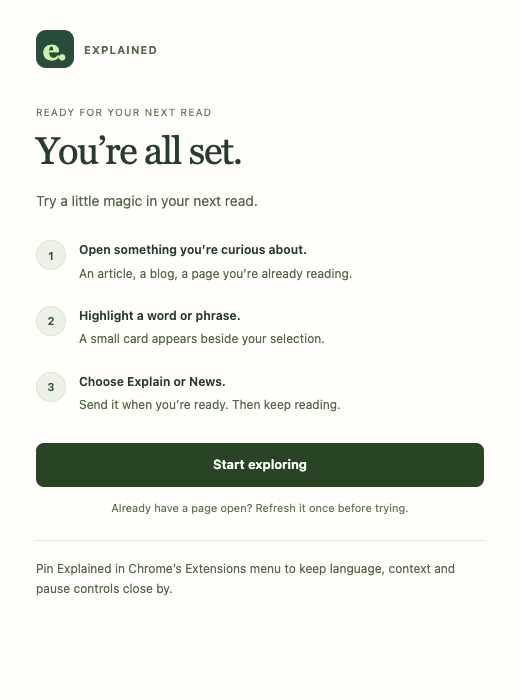
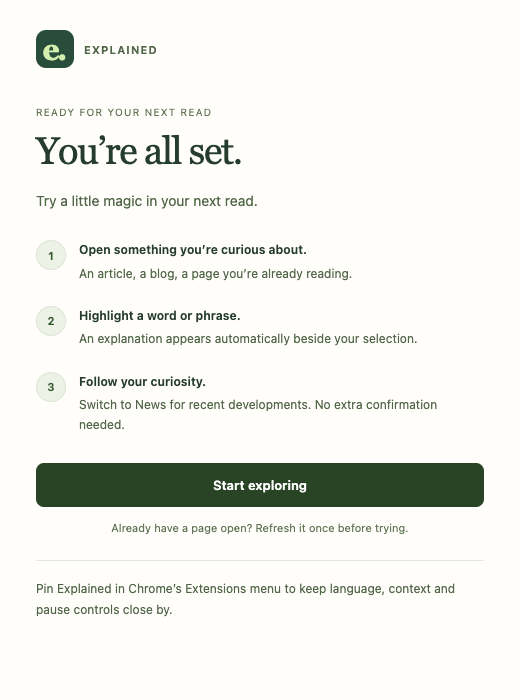
Start Explain on selection and News on tab switch without confirmation

Changed region(s): [[0.0615, 0.54, 0.9538, 0.9], [0.1538, 0.48, 0.8, 0.51]]

diff --git a/explained-extension/reader.js b/explained-extension/reader.js
@@ -45,8 +45,11 @@
     shadow.addEventListener('keydown', event => {
       if (event.key === 'Escape') { event.stopPropagation(); close(true); }
       if (['ArrowLeft', 'ArrowRight', 'Home', 'End'].includes(event.key) && event.target.matches('[role="tab"]')) {
-        event.preventDefault(); state.mode = event.target.dataset.mode === 'explain' ? 'news' : 'explain';
-        state.detail = false; showSelection(); shadow.querySelector(`[data-mode="${state.mode}"]`)?.focus();
+        event.preventDefault();
+        const next = event.key === 'Home' ? 'explain' : event.key === 'End' ? 'news' : state.mode === 'explain' ? 'news' : 'explain';
+        if (next === state.mode) return;
+        state.mode = next; state.detail = false;
+        void lookup(); shadow.querySelector(`[data-mode="${state.mode}"]`)?.focus();
       }
     });
     document.documentElement.append(host);
@@ -147,13 +150,7 @@
     lastFocus = document.activeElement;
     rangeForPosition = range.cloneRange();
     Object.assign(state, { open: true, term, capturedContext: context, context: prefs.contextEnabled ? context : '', mode: 'explain', detail: false, contextOpen: false });
-    showSelection();
-  }
-  function showSelection() {
-    stop(); connectionNotice = '';
-    const cached = state.cache.get(cacheKey());
-    Object.assign(state, cached || { text: '', sources: [] }, { phase: cached ? 'ready' : 'selection', code: '' });
-    render();
+    void lookup();
   }
   function sourceLinks(sources) {
     return sources.flatMap(s => {
@@ -162,7 +159,6 @@
     }).join('');
   }
   function answer() {
-    if (state.phase === 'selection') return `<div class="empty-state setup-state"><h3>${text('Ready when you are','准备好时再开始','準備好時再開始')}</h3><p>${text('Highlighting keeps the text on this page. Choose an action to send this selection to DeepSeek.','划词不会发送文字。点击下方按钮才会将此次选择发送至 DeepSeek。','劃詞不會傳送文字。點擊下方按鈕才會將此次選擇傳送至 DeepSeek。')}</p><div class="setup-actions"><button class="primary-action" data-action="request">${state.mode === 'news' ? text('Search news','搜索新闻','搜尋新聞') : text('Explain selection','解释所选文字','解釋所選文字')}</button></div><p class="setup-hint">${prefs.contextEnabled ? text('Includes nearby context. Review it below or turn it off in the toolbar.','将包含附近上下文。可在下方查看，或在工具栏中关闭。','將包含附近上下文。可在下方查看，或在工具列中關閉。') : text('Only the selected phrase will be sent.','仅发送所选文字。','僅傳送所選文字。')}</p></div>`;
     const waiting = ['connecting', 'loading', 'streaming'].includes(state.phase);
     const loading = waiting ? `<p class="loading-label" role="status"><i></i>${state.phase === 'connecting' ? text('Connecting to DeepSeek…','正在连接 DeepSeek…') : state.mode === 'news' ? text('Searching recent coverage…','正在搜索近期报道…') : text('Finding the meaning in context…','正在结合语境解释…')}</p>` : '';
     let body = '';
@@ -193,7 +189,7 @@
     return `<div class="answer-tabs" role="tablist" aria-label="Answer type">${['explain', 'news'].map(mode => `<button role="tab" tabindex="${state.mode === mode ? '0' : '-1'}" aria-selected="${state.mode === mode}" data-mode="${mode}" class="${state.mode === mode ? 'active' : ''}">${mode === 'explain' ? text('Explain','解释','解釋') : text('News','新闻','新聞')} ${mode === 'news' ? '↗' : ''}</button>`).join('')}</div>`;
   }
   function contextBlock() {
-    return `<button class="context-toggle" data-action="context" aria-expanded="${state.contextOpen}">${state.contextOpen ? '−' : '+'} ${state.phase === 'selection' ? text('Context to share','将分享的上下文','將分享的上下文') : text('Context used','使用的上下文')}</button>${state.contextOpen ? `<div class="context-block">${esc(prefs.contextEnabled ? state.context : text('Context sharing is off. Only the selected text is sent.','上下文分享已关闭，仅发送所选文字。'))}</div>` : ''}`;
+    return `<button class="context-toggle" data-action="context" aria-expanded="${state.contextOpen}">${state.contextOpen ? '−' : '+'} ${text('Context used','使用的上下文')}</button>${state.contextOpen ? `<div class="context-block">${esc(prefs.contextEnabled ? state.context : text('Context sharing is off. Only the selected text is sent.','上下文分享已关闭，仅发送所选文字。'))}</div>` : ''}`;
   }
   function render() {
     if (!host && !state.open) return;
@@ -206,7 +202,7 @@
     if (!state.open || !allowed()) { root.replaceChildren(); return; }
     const closeButton = `<button class="icon-btn" data-action="close" aria-label="${text('Close answer','关闭回答')}">×</button>`;
     const title = `<h2>${esc(state.term)}</h2><div class="meaning">${text('Selected phrase · in context','所选短语 · 结合语境')}</div>`;
-    const footer = `<div class="card-footer"><span>DeepSeek · ${state.phase === 'selection' ? text('Not sent','尚未发送','尚未傳送') : text('AI response','AI 回答')}</span><span>${esc(Explained.languages[prefs.language])} · ${text('General','通用')}</span></div>`;
+    const footer = `<div class="card-footer"><span>DeepSeek · ${text('AI response','AI 回答')}</span><span>${esc(Explained.languages[prefs.language])} · ${text('General','通用')}</span></div>`;
     const content = answer();
     let html;
     if (prefs.layout === 'B') html = `<section class="assistant variant-b" role="region" aria-label="Explained"><div class="split-context"><span class="identity">e. &nbsp; EXPLAINED</span>${title}<span class="context-label">${text('IN THIS CONTEXT','在此语境中')}</span><div class="context-block">${esc(prefs.contextEnabled ? state.context : text('Context sharing off','上下文分享已关闭'))}</div><span class="small-tag">${text('A little more understanding','多理解一点')}</span></div><div class="split-answer"><div class="split-top"><span>EXPLAINED</span>${closeButton}</div>${tabs()}${content}${footer}</div></section>`;
@@ -235,13 +231,12 @@
     if (!target || target.disabled) return;
     if (target.dataset.mode) {
       if (state.mode === target.dataset.mode) return;
-      state.mode = target.dataset.mode; state.detail = false; showSelection(); return;
+      state.mode = target.dataset.mode; state.detail = false; await lookup(); return;
     }
     const action = target.dataset.action;
     if (action === 'close') close(true);
     if (action === 'context') { state.contextOpen = !state.contextOpen; render(); }
     if (action === 'more') { state.detail = !state.detail; await lookup(); }
-    if (action === 'request') await lookup();
     if (action === 'retry') await lookup(true);
     if (action === 'refresh') location.reload();
     if (action === 'connection') {

diff --git a/explained-extension/welcome.html b/explained-extension/welcome.html
@@ -9,8 +9,8 @@
       <h1 id="welcome-title">Meet your reading companion.</h1>
       <p class="intro">A clearer meaning. A little more context. Right beside what you’re reading.</p>
       <div class="sharing">
-        <h2>You choose what to share.</h2>
-        <p>When you choose Explain or Search news, your selected text is sent to DeepSeek. DeepSeek may keep these chats. Highlighting alone never sends text.</p>
+        <h2>A little context, with your permission.</h2>
+        <p>With lookups enabled, highlighting sends your selected text to DeepSeek for an explanation. Switching to News searches for recent developments. DeepSeek may keep these chats. Pause lookups anytime from the toolbar.</p>
         <label class="context-option" for="context"><input id="context" type="checkbox" disabled><span><strong>Include nearby context</strong><span>Share up to 600 nearby characters with your selection to help clarify its meaning. You can change this anytime.</span></span></label>
       </div>
       <button id="enable" class="primary" disabled>Enable lookups</button>
@@ -23,8 +23,8 @@
       <p class="intro">Try a little magic in your next read.</p>
       <ol class="steps">
         <li><span class="step-number" aria-hidden="true">1</span><span><strong>Open something you’re curious about.</strong><span>An article, a blog, a page you’re already reading.</span></span></li>
-        <li><span class="step-number" aria-hidden="true">2</span><span><strong>Highlight a word or phrase.</strong><span>A small card appears beside your selection.</span></span></li>
-        <li><span class="step-number" aria-hidden="true">3</span><span><strong>Choose Explain or News.</strong><span>Send it when you’re ready. Then keep reading.</span></span></li>
+        <li><span class="step-number" aria-hidden="true">2</span><span><strong>Highlight a word or phrase.</strong><span>An explanation appears automatically beside your selection.</span></span></li>
+        <li><span class="step-number" aria-hidden="true">3</span><span><strong>Follow your curiosity.</strong><span>Switch to News for recent developments. No extra confirmation needed.</span></span></li>
       </ol>
       <button id="done" class="primary">Start exploring</button>
       <p class="footnote">Already have a page open? Refresh it once before trying.</p>

diff --git a/explained-extension/popup.html b/explained-extension/popup.html
@@ -4,8 +4,8 @@
 <body>
   <header><span class="logo">e.</span><div><h1>Explained</h1><p>A little more understanding.</p></div><button id="enabled" class="toggle" aria-pressed="true" hidden>On</button></header>
   <main>
-    <p class="helper">Highlight a phrase, then choose Explain or News when you want an answer.</p>
-    <section id="consent-panel"><h2>Your choice to share</h2><p>Selected text and, when enabled, up to 600 characters of nearby context are sent to DeepSeek only when you choose Explain, Search news or Retry. DeepSeek may keep these chats.</p><button id="consent" class="solid">Enable lookups</button><p>Enabling does not send text or open DeepSeek. Highlighting alone never sends text.</p></section>
+    <p class="helper">Highlight a phrase for an explanation. Switch to News for recent developments.</p>
+    <section id="consent-panel"><h2>Your choice to share</h2><p>With lookups enabled, highlighting sends selected text and, when enabled, up to 600 nearby characters to DeepSeek. Switching to News starts a search. DeepSeek may keep these chats.</p><button id="consent" class="solid">Enable lookups</button><p>Enabling itself sends no text. Pause globally or for a website anytime.</p></section>
     <label for="language">Answer language</label><select id="language"><option value="en">English</option><option value="zh-CN">简体中文</option><option value="zh-TW">繁體中文</option></select>
     <div class="setting"><div><label for="context">Use nearby context</label><p>Helps distinguish meanings. Off sends only the selected text.</p></div><input id="context" type="checkbox"></div>
     <div class="setting"><div><h2 id="site-label">This website</h2><p id="site-name">Checking current tab…</p></div><button id="site" class="subtle" disabled>Pause site</button></div>

diff --git a/explained-extension/popup.js b/explained-extension/popup.js
@@ -39,7 +39,7 @@ async function init() {
   render(); void connectionStatus();
 }
 $('enabled').onclick = () => save(current => ({ ...current, enabled: !current.enabled }));
-$('consent').onclick = async () => { if (await save({ consent: true, enabled: true })) $('feedback').textContent = 'You’re all set. Highlight a phrase, then choose Explain or News when you want to send it.'; };
+$('consent').onclick = async () => { if (await save({ consent: true, enabled: true })) $('feedback').textContent = 'You’re all set. Highlight a phrase for an automatic explanation, or switch to News for recent developments.'; };
 $('language').onchange = event => { const language = event.target.value; void save({ language }); };
 $('layout').onchange = event => { const layout = event.target.value; void save({ layout }); };
 $('context').onchange = event => { const contextEnabled = event.target.checked; void save({ contextEnabled }); };
@@ -50,7 +50,7 @@ async function openConnection() {
   try {
     const result = await chrome.runtime.sendMessage({ type: 'OPEN_CONNECTION' });
     if (!result?.ok) throw new Error('OPEN_FAILED');
-    $('feedback').textContent = 'DeepSeek opened. Return to your reading and choose Explain, Search news or Retry when you’re ready.';
+    $('feedback').textContent = 'DeepSeek opened. Return to your reading and choose Retry for an interrupted lookup, or highlight a new phrase.';
   } catch { $('feedback').textContent = 'Could not open DeepSeek. Try again, or reload the extension and refresh your reading page.'; }
   finally { $('connection').disabled = false; }
 }

diff --git a/explained-extension/website-bridge.js b/explained-extension/website-bridge.js
@@ -11,7 +11,7 @@
       const listener = event => {
         if (event.source !== window || event.origin !== location.origin || event.data?.channel !== 'EXPLAINED_DIRECT_OUTPUT_V1' || event.data.nonce !== nonce || event.data.event !== 'ready') return;
         cleanup();
-        resolve({ ready: true, version: '0.1.4', busy: !!active || event.data.busy === true });
+        resolve({ ready: true, version: '0.1.5', busy: !!active || event.data.busy === true });
       };
       const timer = setTimeout(() => { cleanup(); resolve({ ready: false }); }, 1500);
       window.addEventListener('message', listener);

diff --git a/explained-extension/direct-client.js b/explained-extension/direct-client.js
@@ -4,7 +4,7 @@
   if (location.origin !== 'https://chat.deepseek.com') return;
   const CONTROL = 'EXPLAINED_DIRECT_CONTROL_V1';
   const OUTPUT = 'EXPLAINED_DIRECT_OUTPUT_V1';
-  const VERSION = '0.1.4';
+  const VERSION = '0.1.5';
   const PUBLIC_SOLVER = 'https://fe-static.deepseek.com/chat/static/sha3_wasm_bg.7b9ca65ddd.wasm';
   const pageFetch = window.fetch.bind(window);
   const clientMetadata = {};

diff --git a/README.md b/README.md
@@ -8,13 +8,13 @@ Working as an analyst in venture capital and private equity meant a lot of readi
 
 AI helped enormously. But keeping an eye on an extension’s quota got old fast, and the tools I tried often came with more features than I wanted. My wish list was pretty short: **explain this bit, please. Let me get back to reading.**
 
-So I made my own. A little Chrome extension, built around my preference for keeping things simple: highlight a phrase, choose Explain, get an explanation beside it, carry on. If curiosity takes you further, there’s a News tab too.
+So I made my own. A little Chrome extension, built around my preference for keeping things simple: highlight a phrase, get an explanation beside it, carry on. If curiosity takes you further, there’s a News tab too.
 
 I’m now an independent developer and enterprise AI consultant, and I’m sharing Explained for people with the same reading habits—and the same “hang on, what does that mean?” moments.
 
 This version uses the DeepSeek website in your browser; no official paid API key is required. DeepSeek’s own usage limits still apply.
 
-**Still a work in progress:** v0.1.4 is an experimental preview. There are rough edges, and the connection details and validation limits are documented below.
+**Still a work in progress:** v0.1.5 is an experimental preview. There are rough edges, and the connection details and validation limits are documented below.
 
 ![Explained beside a selection in a sample article](docs/images/reading-note.png)
 
@@ -22,7 +22,7 @@ This version uses the DeepSeek website in your browser; no official paid API key
 
 ## A little help, right beside your reading
 
-- **Explain it:** highlight a word or phrase, choose **Explain selection**, and read the answer as it arrives. Ask for a little more when you’re curious.
+- **Explain it:** highlight a word or phrase and read the explanation as it arrives. No extra click. Ask for a little more when you’re curious.
 - **Read the room:** nearby sentences help distinguish meanings. You can inspect that context or switch sharing off.
 - **Follow the story:** the News tab looks for up to three developments from the past 30 days. Links appear only when returned URLs or explicit citation numbers match structured search metadata; unmatched stories are labeled unverified.
 - **Make yourself comfortable:** choose a compact note, split card, or reading margin.
@@ -42,14 +42,14 @@ Normal HTML webpages in the top frame are supported. Browser pages, restricted s
 
 2. Extract the ZIP if needed. In `chrome://extensions`, enable **Developer mode**, choose **Load unpacked**, and select the **explained-extension** folder containing `manifest.json`.
 3. A quick setup window opens on your first install. Review what is shared, choose whether to include nearby context, then select **Enable lookups**. You’ll see **You’re all set** and a short guide. **Maybe later** leaves lookups off; you can enable them from the toolbar anytime. Setup sends no text and does not open DeepSeek.
-4. Refresh an existing reading page and highlight a phrase. Review the local preview, then choose **Explain selection** when you want to send it. For news, select **News** and choose **Search news**. Highlighting and switching tabs never submit text.
+4. Refresh an existing reading page and highlight a phrase. Explain starts automatically. Switch to **News** to search immediately, with no second confirmation. While lookups are enabled, these actions send the selected phrase and any enabled nearby context to DeepSeek. Pause globally or for a website from the toolbar anytime.
 5. If a connection needs attention, choose **Open DeepSeek**. Return to your reading and choose **Retry** when ready. Returning never submits automatically. Keep the DeepSeek tab open while answering; it can stay in the background.
 
 No build step is required. For updates, replace the source, reload the extension, refresh reading pages, and close the old dedicated connection tab. Detailed controls and troubleshooting are in the [extension guide](explained-extension/README.md).
 
 ## A quick word about your data and the connection
 
-Explained sends your selected phrase and, when enabled, up to 600 characters of nearby context to DeepSeek only after you choose an explicit lookup action. The card exposes the context used. DeepSeek may retain the resulting chats. Explained stores preferences locally and keeps a temporary connection-tab ID; it does not persist lookup history or export your login credentials.
+Explained sends your selected phrase and, when enabled, up to 600 characters of nearby context to DeepSeek automatically when you highlight with lookups enabled, or switch to News. The card exposes the context used. DeepSeek may retain the resulting chats. Explained stores preferences locally and keeps a temporary connection-tab ID; it does not persist lookup history or export your login credentials.
 
 Automatic highlighting requires permission to run on HTTP/HTTPS pages. You can pause a site or restrict site access using Chrome’s extension settings. See [PRIVACY.md](PRIVACY.md) for the data flow and permissions.
 
@@ -75,9 +75,9 @@ npm run package
 
 For an existing Chrome executable, set `CHROME_EXECUTABLE_PATH` when running the UI test. Otherwise, Playwright uses its managed Chromium.
 
-Edit `explained-extension/reader.css` for card styles. Packaging regenerates `reader-styles.js`, validates resources, and creates `explained-v0.1.4.zip` with a SHA-256 checksum. ZIP files and local validation output are ignored by Git.
+Edit `explained-extension/reader.css` for card styles. Packaging regenerates `reader-styles.js`, validates resources, and creates `explained-v0.1.5.zip` with a SHA-256 checksum. ZIP files and local validation output are ignored by Git.
 
-The test suite includes 25 contract/bridge/decoder tests and 59 controlled browser UI checks. All use controlled responses. The browser test runs the shipped UI scripts on localhost in a temporary profile; it does not install the extension or access an authenticated DeepSeek account. See [validation details](docs/VALIDATION.md) for evidence and remaining live checks.
+The test suite includes 25 contract/bridge/decoder tests and 62 controlled browser UI checks. All use controlled responses. The browser test runs the shipped UI scripts on localhost in a temporary profile; it does not install the extension or access an authenticated DeepSeek account. See [validation details](docs/VALIDATION.md) for evidence and remaining live checks.
 
 ## Tell me what you think
 

diff --git a/explained-extension/README.md b/explained-extension/README.md
@@ -1,15 +1,15 @@
-# Explained 0.1.4
+# Explained 0.1.5
 
 A personal-use Chrome extension that explains highlighted webpage text through the DeepSeek website in your browser. This combines the direct POST connection from bridge 0.0.4 with the reading experience and toolbar panel from the two handoffs. No official paid model API, build step, or runtime dependency installation is needed.
 
 ## Install / update
 
-1. Unzip `explained-v0.1.4.zip` if using the packaged download.
+1. Unzip `explained-v0.1.5.zip` if using the packaged download.
 2. In Chrome, open `chrome://extensions`, enable **Developer mode**, choose **Load unpacked**, and select **explained-extension**, the folder containing this file and `manifest.json`.
 3. If you previously installed **Highlight · DeepSeek bridge prototype**, disable it to avoid confusion. It is a separate connection harness.
 4. On first install, a local welcome window opens automatically. Read the sharing notice, choose nearby context, and select **Enable lookups**. The **You’re all set** screen shows how to try it. **Maybe later** closes setup without enabling. Setup never opens DeepSeek or submits text. If a window cannot open, the same setup appears in a local tab; updates do not reopen it. The toolbar remains available for later enabling and preferences.
-5. Refresh already-open reading pages, then highlight a phrase. The preview stays on the page until you choose **Explain selection**. Review nearby context or turn it off in the toolbar before sending.
-6. For news, choose **News**, then **Search news**. Open DeepSeek and Retry are separate explicit actions if the connection needs attention. Returning to the reading page never resubmits. Keep the DeepSeek tab open while answering; it can stay in the background.
+5. Refresh already-open reading pages, then highlight a phrase. Explain starts automatically, without another button click. The selected phrase and any enabled context are sent to DeepSeek. Turn context off or pause lookups globally or per site from the toolbar.
+6. Switch to **News** to search immediately, without a second confirmation. Open DeepSeek and Retry are separate explicit actions if the connection needs attention. Returning to the reading page never resubmits. Keep the DeepSeek tab open while answering; it can stay in the background.
 
 For later file updates, use **Reload** on the extension’s card in `chrome://extensions`, then refresh reading pages and close the old dedicated DeepSeek tab so a fresh helper environment can be created. Installation and reloading are manual; the agent did not operate Chrome’s protected extension manager.
 
@@ -18,7 +18,7 @@ For later file updates, use **Reload** on the extension’s card in `chrome://ex
 - **Explain:** progressive plain-text answer, two short sentences by default. **Explain a little more** requests a fuller answer with an example; **Keep it short** restores the concise answer.
 - **News:** live-search request for up to three distinct developments with event dates in the last 30 days. Exact duplicate summaries and out-of-window or invalid dates are filtered. Distinct-event deduplication also relies on the model’s requested behavior.
 - **Sources:** a story gets a clickable source only when its returned URL or explicit search citation number matches recognized structured search metadata. SEARCH, TOOL_SEARCH and TOOL_OPEN sources are decoded from both snapshots and incremental result patches. Unmatched stories are explicitly marked unverified. Unparseable News responses retain their text, and search sources are shown separately without claiming per-story correspondence. Model prose URLs never become source links by themselves.
-- **Setup and recovery:** only the welcome setup or toolbar can enable lookups. Highlighting, mode changes, enabling, and returning from DeepSeek never send text. **Explain selection**, **Search news**, expansion and **Retry** are explicit submission actions. Open DeepSeek stays responsive during connection startup. A reloaded extension offers **Refresh page**.
+- **Setup and recovery:** only the welcome setup or toolbar can enable lookups. Once enabled, highlighting starts Explain and switching modes starts that lookup immediately, reusing a completed result when available. Enabling itself and returning from DeepSeek do not submit text. Interrupted or rejected requests still require **Retry**. Open DeepSeek stays responsive during connection startup. A reloaded extension offers **Refresh page**.
 - **Dismiss:** Escape, the close button, or a click outside. Dismissal aborts the current lookup. A new selection supersedes the previous request; outdated events are ignored.
 - **Toolbar:** On / Paused, answer language, context sharing, current-site pause, session presence, and General coverage. Changes save locally. Language choices are English, Simplified Chinese and Traditional Chinese.
 - **Reading layout & connection details:** choose A (compact note, default), B (split card), or C (reading margin). All three preserve the prototype design. The default is an implementation choice, not a claim that a layout winner was approved.
@@ -54,7 +54,7 @@ These tests did **not** install this build into the user’s Chrome profile or c
 
 ## Installed-build check
 
-1. With no saved preferences, highlight before opening the toolbar: no card or request should appear. Enable in the toolbar: nothing should be submitted. Highlight again, inspect the preview, and choose **Explain selection**. Open DeepSeek if needed; returning must not submit until **Retry** is chosen.
+1. With no saved preferences, highlight before opening the toolbar: no card or request should appear. Enable in the toolbar: nothing should be submitted. Highlight again: Explain should start without another click. Switch to News: search should start immediately. Verify both global and site pause prevent requests. Open DeepSeek if needed; returning must not submit until **Retry** is chosen.
 2. Switch News on a current, well-covered subject. Open each source and compare event date, subject and summary. An unverified warning is expected when the stream exposes no matching structured source.
 3. Highlight another phrase before the first answer completes. Only the new phrase should receive a result. Dismiss during loading; no late answer should reopen the card.
 4. Change language and context sharing; Retry. Pause globally and per site; selections should stop opening cards.

diff --git a/PRIVACY.md b/PRIVACY.md
@@ -1,14 +1,14 @@
 # Privacy and permissions
 
-Updated 2026-10-21 for version 0.1.4.
+Updated 2026-10-22 for version 0.1.5.
 
 ## Data flow
 
-Lookups must first be explicitly enabled in the local welcome setup or toolbar. The welcome window opens on first install and may be skipped without enabling anything. Highlighting then creates a local preview. Only choosing **Explain selection**, **Search news**, expansion, or **Retry** sends the selected phrase and optional context through the extension to a dedicated DeepSeek tab. Enabling, switching modes, opening DeepSeek, and returning to the reading page do not submit text. That page submits the prompt to DeepSeek. DeepSeek returns the answer and, for News, any search metadata it exposes. Results are displayed beside the selection.
+Lookups must first be explicitly enabled in the local welcome setup or toolbar. The welcome window opens on first install and may be skipped without enabling anything. Once enabled, completing a supported text selection automatically sends the selected phrase and optional context through the extension to a dedicated DeepSeek tab for Explain. Switching to News starts a search immediately; switching back reuses a completed answer where available. Enabling itself, opening DeepSeek, and returning to the reading page do not submit text. DeepSeek returns the answer and, for News, any search metadata it exposes. Results are displayed beside the selection.
 
-The selected phrase is limited to 500 characters. Surrounding context is limited to 600 characters and aims to include the containing sentence and one adjacent sentence on each side. You can inspect it before sending with **Context to share** and disable it in the toolbar. Input fields, editable regions and hidden text are excluded where the supported page structure identifies them. Unusual editors or custom page structures may be unsupported.
+The selected phrase is limited to 500 characters. Surrounding context is limited to 600 characters and aims to include the containing sentence and one adjacent sentence on each side. You can inspect it with **Context used** and disable sharing before highlighting using the toolbar. Input fields, editable regions and hidden text are excluded where the supported page structure identifies them. Unusual editors or custom page structures may be unsupported.
 
-No lookup is sent before the sharing notice is accepted. News is requested only after **Search news** is chosen. The implementation sends the selected text and optional context to DeepSeek; it does not send the full reading page, reading-page URL, browsing history or a cookie export as prompt fields to a developer-operated service.
+No lookup is sent before the sharing notice is accepted. News is requested when you switch to the News tab. The implementation sends the selected text and optional context to DeepSeek; it does not send the full reading page, reading-page URL, browsing history or a cookie export as prompt fields to a developer-operated service.
 
 ## Where data is stored
 
@@ -24,7 +24,7 @@ Explained includes no analytics, advertising or developer-operated backend. Each
 
 ## Permissions and requests
 
-- **HTTP/HTTPS site access:** detects selections and displays the card on ordinary pages. Pause stops selection previews and lookups; it does not revoke Chrome’s permission. Chrome’s site-access settings can restrict that permission.
+- **HTTP/HTTPS site access:** detects selections and displays the card on ordinary pages. Pause stops selection cards and lookups; it does not revoke Chrome’s permission. Chrome’s site-access settings can restrict that permission.
 - **storage:** saves preferences and the temporary connection-tab ID.
 - **DeepSeek website requests:** session creation, a fresh work challenge and completion, all from the website page to its own origin. Requests do not redirect authentication to another host.
 - **Official solver asset:** a public WASM asset is loaded from DeepSeek’s site or its official static host. Static downloads omit credentials. This is a separate distribution-policy consideration documented in the README.
@@ -33,6 +33,6 @@ The manifest does not request cookie export, browsing history, debugger or nativ
 
 ## Your controls
 
-Pause globally, pause a hostname, disable context, close the card to cancel, restrict extension site access, or remove the extension. Pausing does not delete existing DeepSeek conversations. Review each selection and any nearby context before choosing a lookup action. Do not submit sensitive content you do not want sent to DeepSeek.
+Pause globally, pause a hostname, disable context, close the card to cancel, restrict extension site access, or remove the extension. Pausing does not delete existing DeepSeek conversations. Pause lookups globally or for the current site before selecting sensitive content you do not want sent to DeepSeek. You can also turn context sharing off before highlighting.
 
 Third-party handling is described in [DeepSeek’s privacy policy](https://cdn.deepseek.com/policies/en-US/deepseek-privacy-policy.html). Report privacy-related defects through [SECURITY.md](SECURITY.md).

diff --git a/docs/VALIDATION.md b/docs/VALIDATION.md
@@ -1,10 +1,10 @@
 # Validation
 
-Version 0.1.4, 2026-10-21.
+Version 0.1.5, 2026-10-22.
 
-The implementation passed JavaScript syntax/resource checks, 25 Node contract/bridge/decoder tests and 59 controlled browser UI checks. The UI test uses the shipped scripts on localhost in a temporary profile with synthetic replies. It checks consent, bounded/rendered context, hidden/editable exclusion, expansion, News parsing and source-link matching, layouts A/B/C, 375 px viewport, site pause, stale results, cached view switching, connection errors and toolbar preferences.
+The implementation passed JavaScript syntax/resource checks, 25 Node contract/bridge/decoder tests and 62 controlled browser UI checks. The UI test uses the shipped scripts on localhost in a temporary profile with synthetic replies. It checks consent, bounded/rendered context, hidden/editable exclusion, expansion, News parsing and source-link matching, layouts A/B/C, 375 px viewport, site pause, stale results, cached view switching, connection errors and toolbar preferences.
 
-Privacy and interaction checks cover no card or request before setup or toolbar opt-in, no submission from enabling or highlighting, explicit Explain and Search news actions, mode changes without submission, mouse and keyboard buttons in layouts A/B/C, failed connection opening, no continuation after returning to the page, explicit Retry, page refresh after an extension reload, and small-screen Traditional Chinese recovery. First-install tests check a local popup only on install, tab fallback, no repeat on update, explicit enabling, skipping without consent, save failure recovery, keyboard focus, no connection requests during setup, and small-window layout. Actual extension installation remains a manual check. Decoder tests cover delayed SEARCH results, batched patches, citation IDs, and URL filtering.
+Privacy and interaction checks cover no card or request before setup or toolbar opt-in, no submission from enabling itself, automatic Explain on highlighting, immediate News on mode selection without an extra button, keyboard mode switching with cached results, global and per-site pause, mouse and keyboard buttons in layouts A/B/C, failed connection opening, no continuation after returning to the page, explicit Retry, page refresh after an extension reload, and small-screen Traditional Chinese recovery. First-install tests check a local popup only on install, tab fallback, no repeat on update, explicit enabling, skipping without consent, save failure recovery, keyboard focus, no connection requests during setup, and small-window layout. Actual extension installation remains a manual check. Decoder tests cover delayed SEARCH results, batched patches, citation IDs, and URL filtering.
 
 The bridge tests simulate session/challenge/completion responses, a solver worker, split Chinese UTF-8 and SSE framing, HTTP/authentication failures and cancellation. They check that credential/session/proof values do not enter relayed extension events. They do not independently validate the remote solver binary or a real server challenge.
 
@@ -12,7 +12,7 @@ The bridge tests simulate session/challenge/completion responses, a solver worke
 
 The current package has not been independently tested against an authenticated account. An earlier connection prototype received qualitative user feedback that it was fast; this is not a reproducible speed measurement for this release.
 
-- Install with no saved preferences. Confirm highlighting is silent before setup or toolbar opt-in. After enabling, check that each selection waits for an explicit action. Open DeepSeek and return; nothing should submit until Retry.
+- Install with no saved preferences. Confirm highlighting is silent before setup or toolbar opt-in. After enabling, confirm each new selection starts Explain automatically, and switching to News starts search with no additional confirmation. Verify pause prevents both. Open DeepSeek and return; nothing should submit until Retry.
 - Verify the actual website route in both guest and account sessions where available. Synthetic missing-token success does not prove live guest compatibility.
 - Test cold and warm Explain, with DeepSeek in the background.
 - Test News on a current subject; compare each returned event date, summary and linked source. Current structured metadata and semantic story/source correspondence still need live validation.

diff --git a/CHANGELOG.md b/CHANGELOG.md
@@ -1,5 +1,11 @@
 # Changelog
 
+## 0.1.5 — 2026-10-22
+
+- Remove per-selection confirmation: highlighting starts Explain after lookups are enabled, and switching to News starts search immediately.
+- Preserve first-use consent, global/site pause, context controls, cancellation, and completed-answer caching. Returning from DeepSeek does not retry interrupted requests.
+- Update setup and privacy copy to explain automatic submissions after enabling.
+
 ## 0.1.4 — 2026-10-21
 
 - Open a skippable local welcome window on first install, with tab fallback. Updates do not reopen it.
